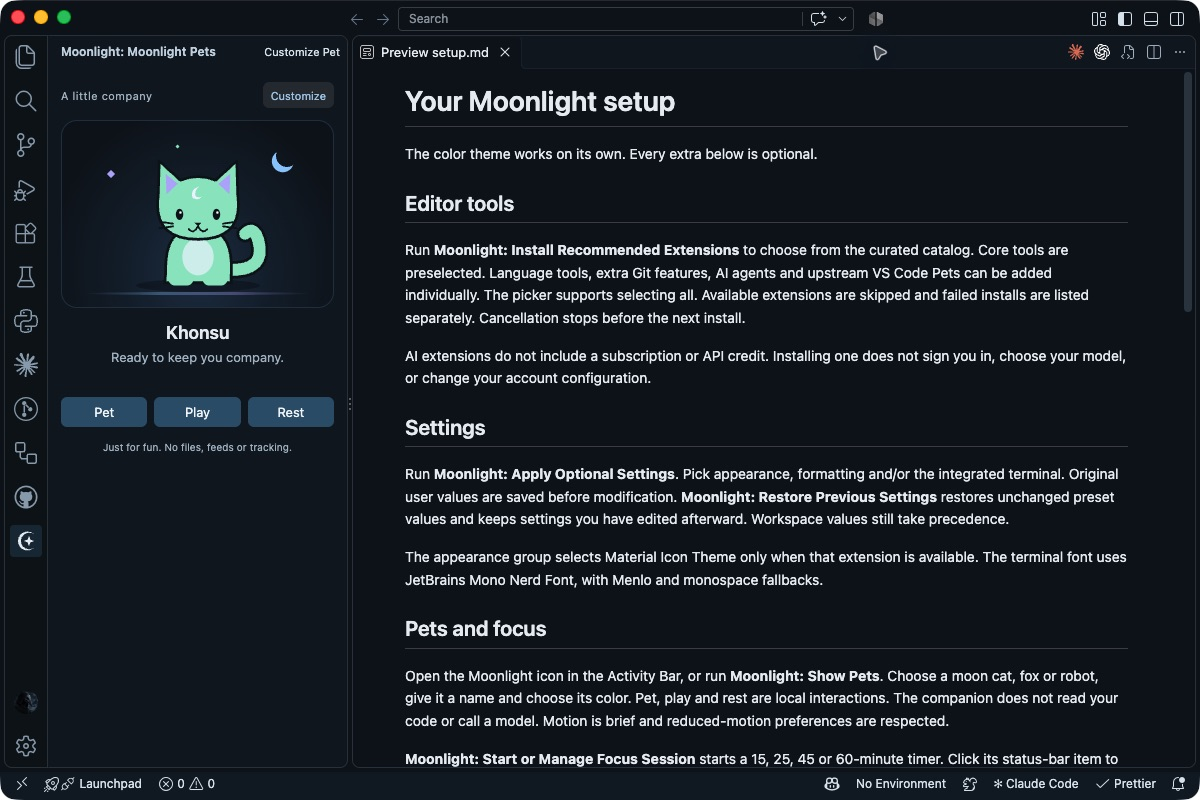
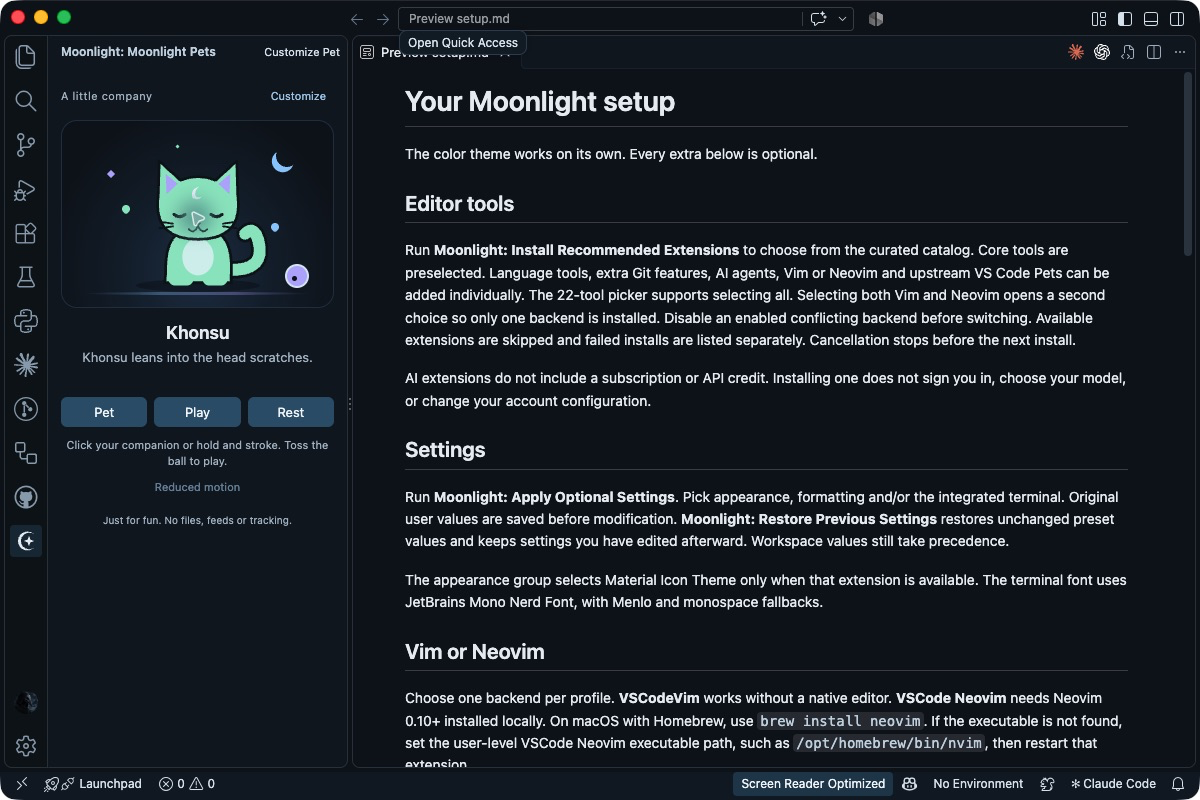
docs: share interactive Moonlight pets

diff --git a/index.html b/index.html
@@ -162,7 +162,7 @@ A passing check covers its tested conditions. It is not proof that every environ
 </div>
 </div>
 <div class="project-grid" id="project-grid">
-<article class="project-card reveal" data-project-group="tools" data-source-language lang="en" dir="ltr"><button class="project-details" data-project="moonlight" aria-haspopup="dialog"><div class="project-art portfolio-art" aria-hidden="true"><span><img class="project-logo" src="assets/previews/moonlight-logo.png" alt="" width="44" height="44" loading="lazy" decoding="async"></span><div class="art-caption"><span class="art-handle">khonsu / moonlight</span><span class="art-tag">MY EDITOR + SHELL</span></div><img class="dialog-preview-hidden" src="assets/previews/moonlight.png" alt="" width="1200" height="800" loading="lazy" decoding="async"></div><div class="project-info"><div class="project-meta"><span>CURRENT PROJECT</span><span>VS Code · Theme + extras</span></div><h3>Khonsu Moonlight</h3><p>Dark VS Code theme with pets, optional setup and matching Vim/Neovim presets.</p><span class="details-label">Notes</span></div></button><div class="project-actions"><a class="project-live" data-kind="external" href="https://marketplace.visualstudio.com/items?itemName=khons-hu.khonsu-moonlight" target="_blank" rel="noopener noreferrer">Install Moonlight ↗</a></div></article>
+<article class="project-card reveal" data-project-group="tools" data-source-language lang="en" dir="ltr"><button class="project-details" data-project="moonlight" aria-haspopup="dialog"><div class="project-art portfolio-art" aria-hidden="true"><span><img class="project-logo" src="assets/previews/moonlight-logo.png" alt="" width="44" height="44" loading="lazy" decoding="async"></span><div class="art-caption"><span class="art-handle">khonsu / moonlight</span><span class="art-tag">MY EDITOR + SHELL</span></div><img class="dialog-preview-hidden" src="assets/previews/moonlight.png" alt="" width="1200" height="800" loading="lazy" decoding="async"></div><div class="project-info"><div class="project-meta"><span>CURRENT PROJECT</span><span>VS Code · Theme + extras</span></div><h3>Khonsu Moonlight</h3><p>Dark VS Code theme with interactive pets, optional setup and matching Vim/Neovim presets.</p><span class="details-label">Notes</span></div></button><div class="project-actions"><a class="project-live" data-kind="external" href="https://marketplace.visualstudio.com/items?itemName=khons-hu.khonsu-moonlight" target="_blank" rel="noopener noreferrer">Install Moonlight ↗</a></div></article>
 <article class="project-card reveal" data-project-group="tools"><button class="project-details" data-project="proof" aria-haspopup="dialog"><div class="project-art portfolio-art" aria-hidden="true"><span>✓?</span><div class="art-caption"><span class="art-handle">trialkeep</span><span class="art-tag">SHOW YOUR WORKING</span></div></div><div class="project-info"><div class="project-meta"><span>CURRENT PROJECT</span><span>JavaScript · Agent evaluation</span></div><h3>Trialkeep</h3><p>A small lab for agent decisions, browser tasks, skill comparisons, deploy checks and claims.</p><span class="details-label">Notes</span></div></button><div class="project-actions"><a class="project-live" data-kind="source" href="https://github.com/khons-hu/trialkeep" target="_blank" rel="noopener noreferrer">View source ↗</a></div></article>
 <article class="project-card reveal" data-project-group="tools"><button class="project-details" data-project="thinkroom" aria-haspopup="dialog"><div class="project-art portfolio-art" aria-hidden="true"><span>◇</span><div class="art-caption"><span class="art-handle">reasonrook</span><span class="art-tag">THINK IT THROUGH</span></div><img class="dialog-preview-hidden" src="assets/previews/reasonrook.webp" alt="" width="1785" height="860" loading="lazy" decoding="async"></div><div class="project-info"><div class="project-meta"><span>CURRENT PROJECT</span><span>JavaScript · Browser sandbox</span></div><h3>Reasonrook</h3><p>A practice workshop for coding, debugging, logic, prompts and skills. Hints when you need them.</p><span class="details-label">Notes</span></div></button><div class="project-actions"><a class="project-live" data-kind="live" href="https://solve.khns.dev/" target="_blank" rel="noopener noreferrer">Open app ↗</a></div></article>
 <article class="project-card reveal" data-project-group="tools"><button class="project-details" data-project="signal" aria-haspopup="dialog"><div class="project-art portfolio-art" aria-hidden="true"><span>F</span><div class="art-caption"><span class="art-handle">feedcairn</span><span class="art-tag">SIGNAL, NOT NOISE</span></div><img class="dialog-preview-hidden" src="assets/previews/feedcairn.webp" alt="" width="1785" height="860" loading="lazy" decoding="async"></div><div class="project-info"><div class="project-meta"><span>CURRENT PROJECT</span><span>TypeScript · RSS / Atom</span></div><h3>Feedcairn</h3><p>AI news, releases and service status in one small inbox. Save the useful bits and leave.</p><span class="details-label">Notes</span></div></button><div class="project-actions"><a class="project-live" data-kind="live" href="https://relay.khns.dev/" target="_blank" rel="noopener noreferrer">Open app ↗</a></div></article>
@@ -185,7 +185,7 @@ A passing check covers its tested conditions. It is not proof that every environ
 <div class="work-detail reveal"><p class="eyebrow">CURRENTLY AT <a href="https://www.luigisbox.com/" target="_blank" rel="noopener noreferrer">LUIGI'S BOX ↗</a></p><h3>Customer Support<br>Partner L2.</h3><p>I investigate and fix e-commerce integrations across frontend behaviour, APIs, product feeds, data mapping and analytics. I work with Google Tag Manager, AWS and Sentry, verify fixes in real user journeys and prepare reproducible cases for engineering.</p><p>Luigi's Box builds search and product discovery for e-commerce, including recommendations and conversational shopping tools.</p><div class="practice"><details open><summary>Trace the problem <span aria-hidden="true">+</span></summary><p>Reproduce the issue in the actual user journey. Follow requests, configuration, and data until the behaviour makes sense.</p></details><details><summary>Audit the whole integration <span aria-hidden="true">+</span></summary><p>Review storefront behaviour, product feeds, mapping, synchronization, and event collection for smaller shops and larger clients.</p></details><details><summary>Fix, verify, hand over <span aria-hidden="true">+</span></summary><p>Make a focused integration fix and verify it. Where engineering is needed, provide a reproducible case and clear technical evidence.</p><p>The work also includes implementation and refactoring, backend analysis, and performance optimisation of collectors and event handling. Analytics fixes cover GTM, dataLayer, duplicate purchases and attribution, including legacy Persoo integrations.</p></details></div></div>
 </div></section>
 <section class="shipped-section wrap section" id="shipped" data-source-language lang="en" dir="ltr" aria-labelledby="shipped-title"><div class="section-heading"><div><p class="eyebrow">RECENTLY SHIPPED</p><h2 id="shipped-title">A few <em>updates.</em></h2></div><p>Public releases and artifacts, with the evidence attached. English release notes.</p></div><ol class="shipped-list">
-<li><time datetime="2026-10-02">2 OCT 2026</time><div><h3>Khonsu Moonlight: optional Vim and Neovim</h3><p>Version 0.4.0 is live on the Marketplace and GitHub. It adds a 22-tool picker, optional Vim and Neovim presets with conflict prevention, separate VS Code profiles and original native colorschemes. Backup and restore, custom pets and the focus timer remain included.</p><a href="https://github.com/khons-hu/khonsu-moonlight/releases/tag/v0.4.0" target="_blank" rel="noopener noreferrer">Get v0.4.0 on GitHub ↗</a> <a href="https://marketplace.visualstudio.com/items?itemName=khons-hu.khonsu-moonlight" target="_blank" rel="noopener noreferrer">Install Moonlight ↗</a> <a href="#project/khonsu-moonlight">Read the project notes ↑</a></div></li>
+<li><time datetime="2026-10-03">3 OCT 2026</time><div><h3>Khonsu Moonlight: interactive pets</h3><p>Version 0.5.0 adds companions you can click or stroke, a ball-chase game, sleep and wake controls, keyboard access, and remembered motion preferences. Reduced motion and hidden tabs pause animation. Pet play stays local, with no network requests or access to your code. The 22-tool picker, Vim and Neovim presets, backup and restore, and focus timer remain included.</p><a href="https://github.com/khons-hu/khonsu-moonlight/releases/tag/v0.5.0" target="_blank" rel="noopener noreferrer">Get v0.5.0 on GitHub ↗</a> <a href="https://marketplace.visualstudio.com/items?itemName=khons-hu.khonsu-moonlight" target="_blank" rel="noopener noreferrer">Install Moonlight ↗</a> <a href="#project/khonsu-moonlight">Read the project notes ↑</a></div></li>
 <li><time datetime="2026-10-01">1 OCT 2026</time><div><h3>Practical model reviews on Unbenchmark</h3><p>My notes on models I use for coding, writing and small decisions in agent workflows, with usage context, checks and limits included. Ratings reflect my own experience. The latest review covers a small Sonnet 5.5 pilot.</p><a href="https://unbenchmark.com/user/khons-hu?tab=reviews" target="_blank" rel="noopener noreferrer">Read the model reviews ↗</a> <a href="https://unbenchmark.com/reviews/124" target="_blank" rel="noopener noreferrer">Read the Sonnet pilot ↗</a></div></li>
 <li><time datetime="2026-09-30">30 SEP 2026</time><div><h3>Codex, Claude and Jev notes refreshed</h3><p>Updated the guide and workflow notes for coding agents and decision tools.</p><a href="https://github.com/khons-hu/portfolio/commit/30be36e" target="_blank" rel="noopener noreferrer">Read the update ↗</a></div></li>
 <li><time datetime="2026-09-27">27 SEP 2026</time><div><h3>This portfolio, opened up</h3><p>Three case studies, a recorded decision replay and reusable skills. The page you are reading is the release.</p><a href="#field-notes">Explore the field notes ↑</a></div></li>

diff --git a/app.js b/app.js
@@ -75,8 +75,8 @@ filterProjects();
 window.addEventListener('portfolio:language', filterProjects);
 
 const projects = {
-  moonlight: { title: 'Khonsu Moonlight', category: 'CURRENT PROJECT · VS CODE THEME + EXTRAS', description: 'Dark VS Code theme with pets, optional setup and matching Vim/Neovim presets.', notes: ['Midnight navy, ice blue, lavender and mint across the editor and shell. Version 0.4.0 is available on the Marketplace and GitHub.', 'The catalog includes 22 optional extensions. Choose VSCodeVim or VSCode Neovim, with conflict prevention so they do not compete for editing keys. Separate profiles keep each backend optional.', 'Apply appearance, formatting, terminal or modal settings with backup and restore. The modal presets retain unrelated key settings. Nothing installs or changes your settings on activation.', 'An original moon cat, fox or robot lives in the sidebar. Change its name and colour, play or let it rest. The optional focus timer runs locally.', 'The bundled guide includes macOS shell and font setup, a Moonlight wallpaper and manual Codex and macOS Terminal presets. Original native Vim and Neovim colorschemes are included for manual setup outside VS Code. The terminal command is prepared for review before it runs.', 'The v0.4.0 update passed 30 runtime checks and a real VS Code 1.140.0 extension-host smoke test. Vim 9.1 and Neovim 0.12.5 passed 35 native-editor assertions. Separate VS Code profiles were checked for navigation and search in the macOS UI.'], screenshots: [
-    { src: 'assets/previews/moonlight-pets.png', width: 1200, height: 800, caption: 'The original moon cat, named Khonsu and coloured mint, beside the bundled setup guide in VS Code.' },
+  moonlight: { title: 'Khonsu Moonlight', category: 'CURRENT PROJECT · VS CODE THEME + EXTRAS', description: 'Dark VS Code theme with interactive pets, optional setup and matching Vim/Neovim presets.', notes: ['Midnight navy, ice blue, lavender and mint across the editor and shell. Version 0.5.0 is available on the Marketplace and GitHub.', 'The catalog includes 22 optional extensions. Choose VSCodeVim or VSCode Neovim, with conflict prevention so they do not compete for editing keys. Separate profiles keep each backend optional.', 'Apply appearance, formatting, terminal or modal settings with backup and restore. The modal presets retain unrelated key settings. Nothing installs or changes your settings on activation.', 'The moon cat, fox and robot are companions you can click or hold and stroke. They breathe and blink, with a tail or robot antenna that moves gently. Click the ball to play a chase game. Rest puts a pet to sleep; click it to wake it. The controls are keyboard accessible. A locally remembered motion toggle, reduced-motion preference and hidden-tab pause control animation. Pet play stays local, with no network requests or access to your code.', 'The bundled guide includes macOS shell and font setup, a Moonlight wallpaper and manual Codex and macOS Terminal presets. Original native Vim and Neovim colorschemes are included for manual setup outside VS Code. The terminal command is prepared for review before it runs.', 'Version 0.5.0 passed 38 runtime checks, live-fixture testing and a real VS Code 1.140.0 extension-host smoke test.'], screenshots: [
+    { src: 'assets/previews/moonlight-pets.png', width: 1200, height: 800, caption: 'Moonlight Pets shows Khonsu leaning into a head scratch, with Pet, Play and Rest controls and reduced motion enabled beside the bundled setup guide.' },
     { src: 'assets/previews/moonlight-setup.png', width: 1200, height: 800, caption: 'Setup and Extras brings the optional tools together. The local focus timer is paused in the status bar.' },
     { src: 'assets/previews/moonlight-vim.jpg', width: 1200, height: 800, caption: 'The separate VSCodeVim profile in VS Code, with relative line numbers and highlighted matches for checks.' },
     { src: 'assets/previews/moonlight-neovim.jpg', width: 1200, height: 800, caption: 'The separate VSCode Neovim profile in VS Code, using the real local Neovim backend to search for checks.' },

diff --git a/README.md b/README.md
@@ -4,7 +4,7 @@ Portfolio: https://khns.dev/
 
 Deployed via Vercel Drop to Deploy on 2026-09-20 in NextWave (next-wave10), project khonsu. The GitHub repository is public: https://github.com/khons-hu/portfolio. GitHub autodeploy is connected to khons-hu/portfolio. Pushes to main create Production deployments and update khons-hu.vercel.app. Verified with commit 26466a4 on 2026-09-20. The initial khonsu-ochre.vercel.app address redirects to the clean address.
 
-Static HTML, CSS, and JavaScript, without a frontend framework or build step. No analytics or background model calls. Project artwork is illustrative. Some project dialogs also include screenshots. Moonlight includes its optional setup menu, original companion and separate VSCodeVim and VSCode Neovim profiles, plus captioned close-ups of the prompt, syntax and public profile settings, with links to full-size images. The contact form sends only the visitor’s email and message through FormSubmit when submitted.
+Static HTML, CSS, and JavaScript, without a frontend framework or build step. No analytics or background model calls. Project artwork is illustrative. Some project dialogs also include screenshots. Moonlight includes its optional setup menu, interactive local pets and separate VSCodeVim and VSCode Neovim profiles, plus captioned close-ups of the prompt, syntax and public profile settings, with links to full-size images. The contact form sends only the visitor’s email and message through FormSubmit when submitted.
 
 ## Preview
 
@@ -65,6 +65,8 @@ Credentials live only in Vercel environment variables: `SPOTIFY_CLIENT_ID`, `SPO
 Edit index.html for the page and project groups, app.js for project notes, project-links.js for public link slugs, and site-locales.js for translations. Edit terminal.js for commands and panels.js for the shared tool navigation. The terminal derives its project catalog from the cards. `ask <question>` opens Ask khonsu with the question prefilled; `ask projects` and `ask agents` are shortcuts. No private client details, CV download, invented results, or unpublished source links are included.
 
 ## Verified locally
+
+2026-10-02 Moonlight 0.5.0 portfolio copy: interactive pet behavior and privacy boundaries reviewed against the release implementation. The release passed 38 runtime checks, live-fixture testing and a VS Code 1.140 extension-host smoke test. The pet description covers click or hold-and-stroke interaction, breathing and blinking, tail or antenna movement, ball chase, rest and wake, keyboard access, remembered local motion preference, reduced-motion handling and hidden-tab pause. Pet play stays local, with no network requests or access to your code.
 
 2026-10-01 review pass: no-JS and print. Without JavaScript the fixed header no longer covers the page while scrolling and a card's outside link no longer sits over its stack line; in print the header no longer repeats over every page, unrevealed sections print, cards stay whole and the guide button is left out. `node --test tests/*.test.cjs` (128 tests). Chrome headless against the local server: A4 PDFs in both themes straight after load, no-JS at 1280 and 390px (index and 404), a text-overlap scan at 1280, 1024, 768, 390 and 320px with and without JavaScript, and axe (no violations) at 1280 dark/light, 390 light and 390 dark Arabic. The earlier sweep of all 17 languages at five widths, the three panels, every project's notes, keyboard focus, forced colours and 2560px found nothing else to change. Chrome only; Safari and Firefox printing not checked.
 
